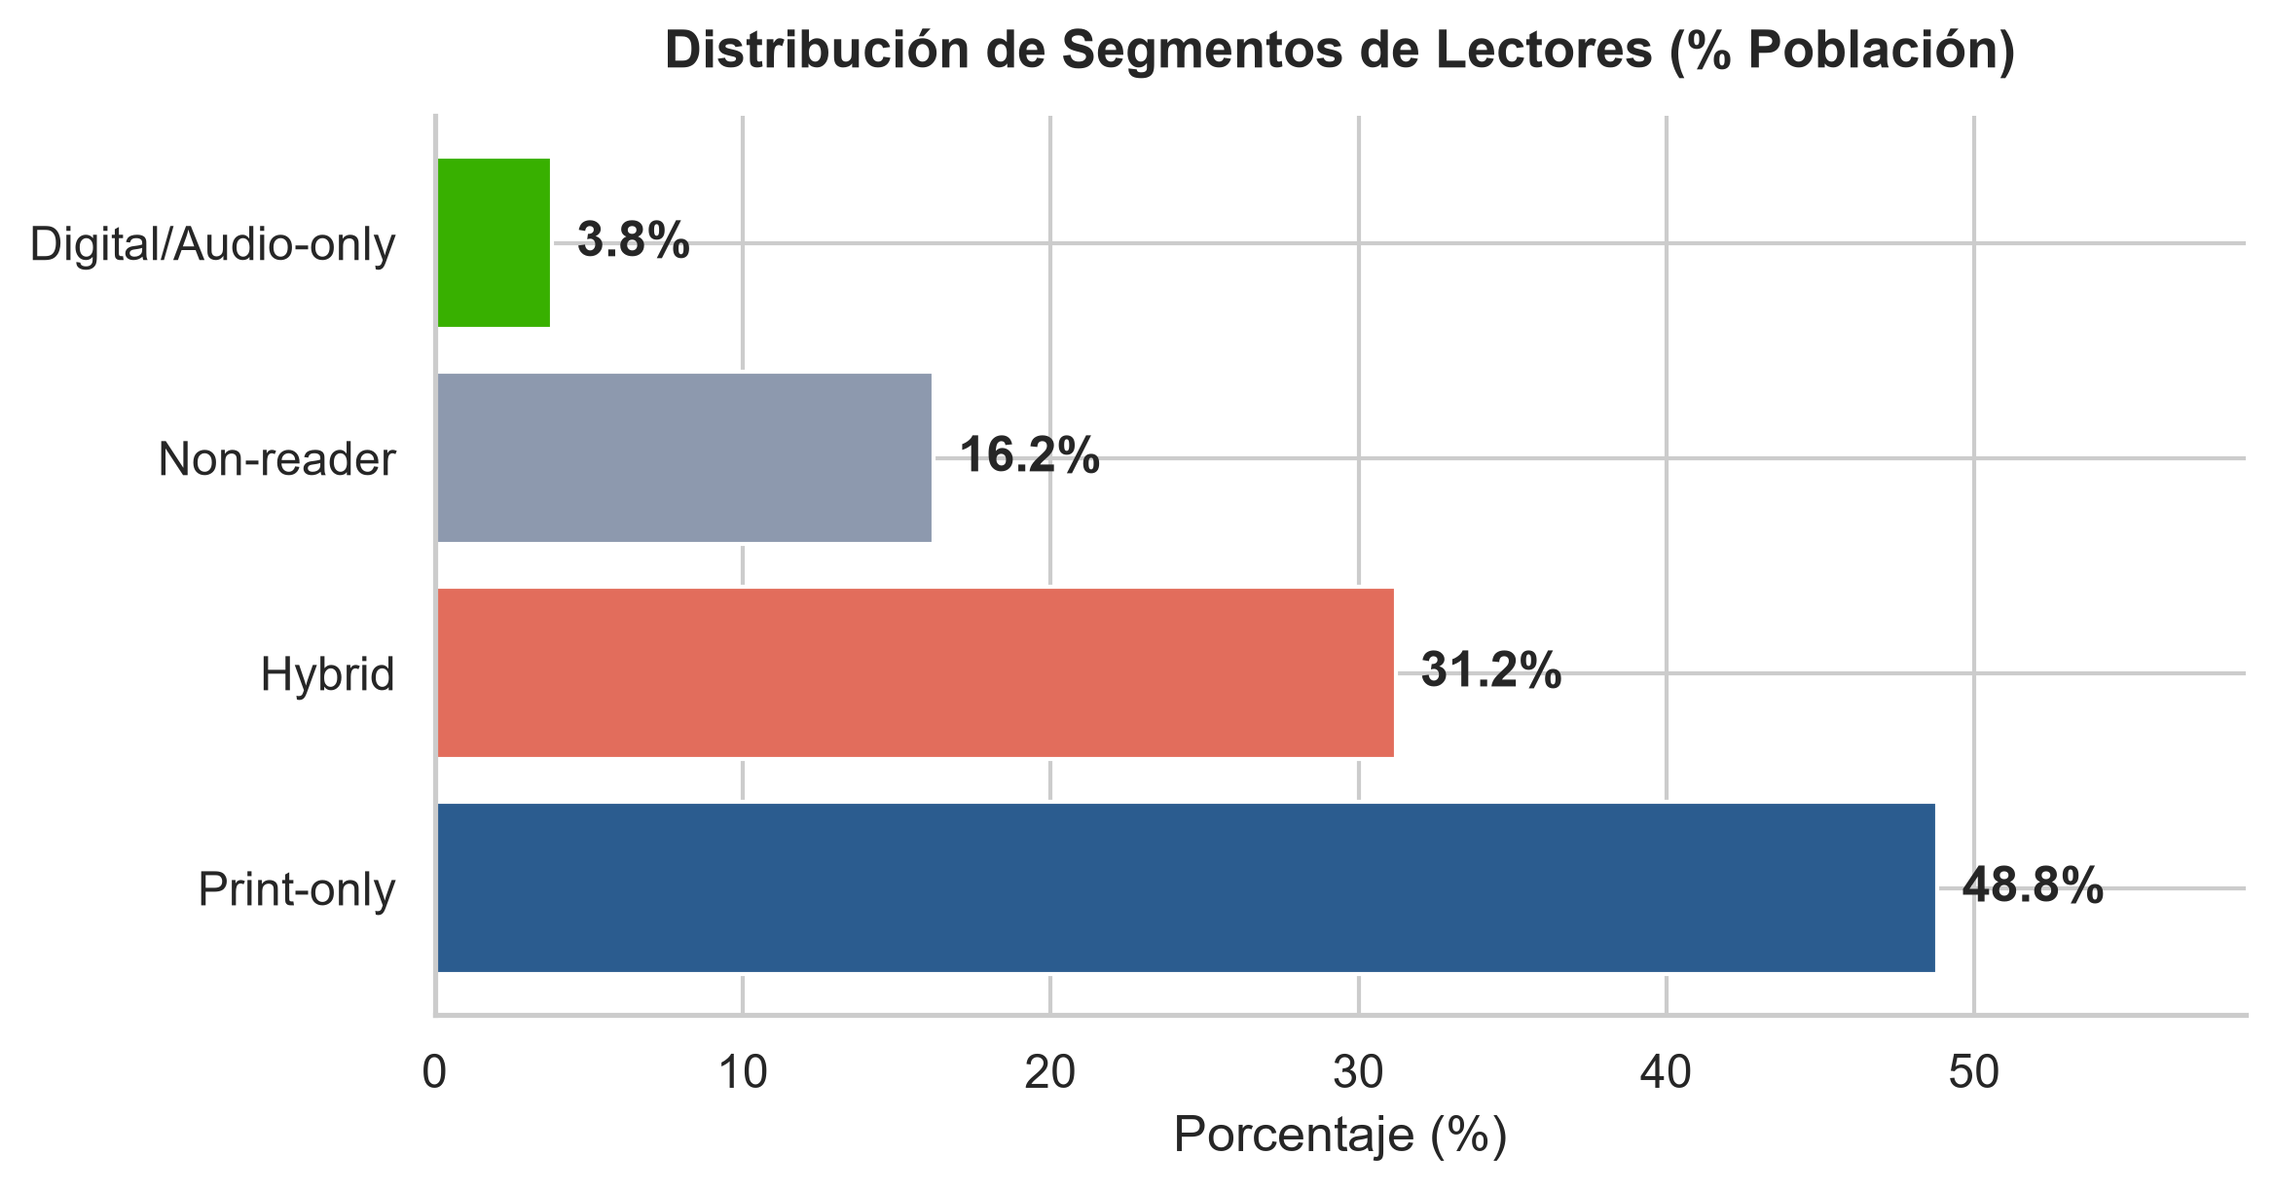
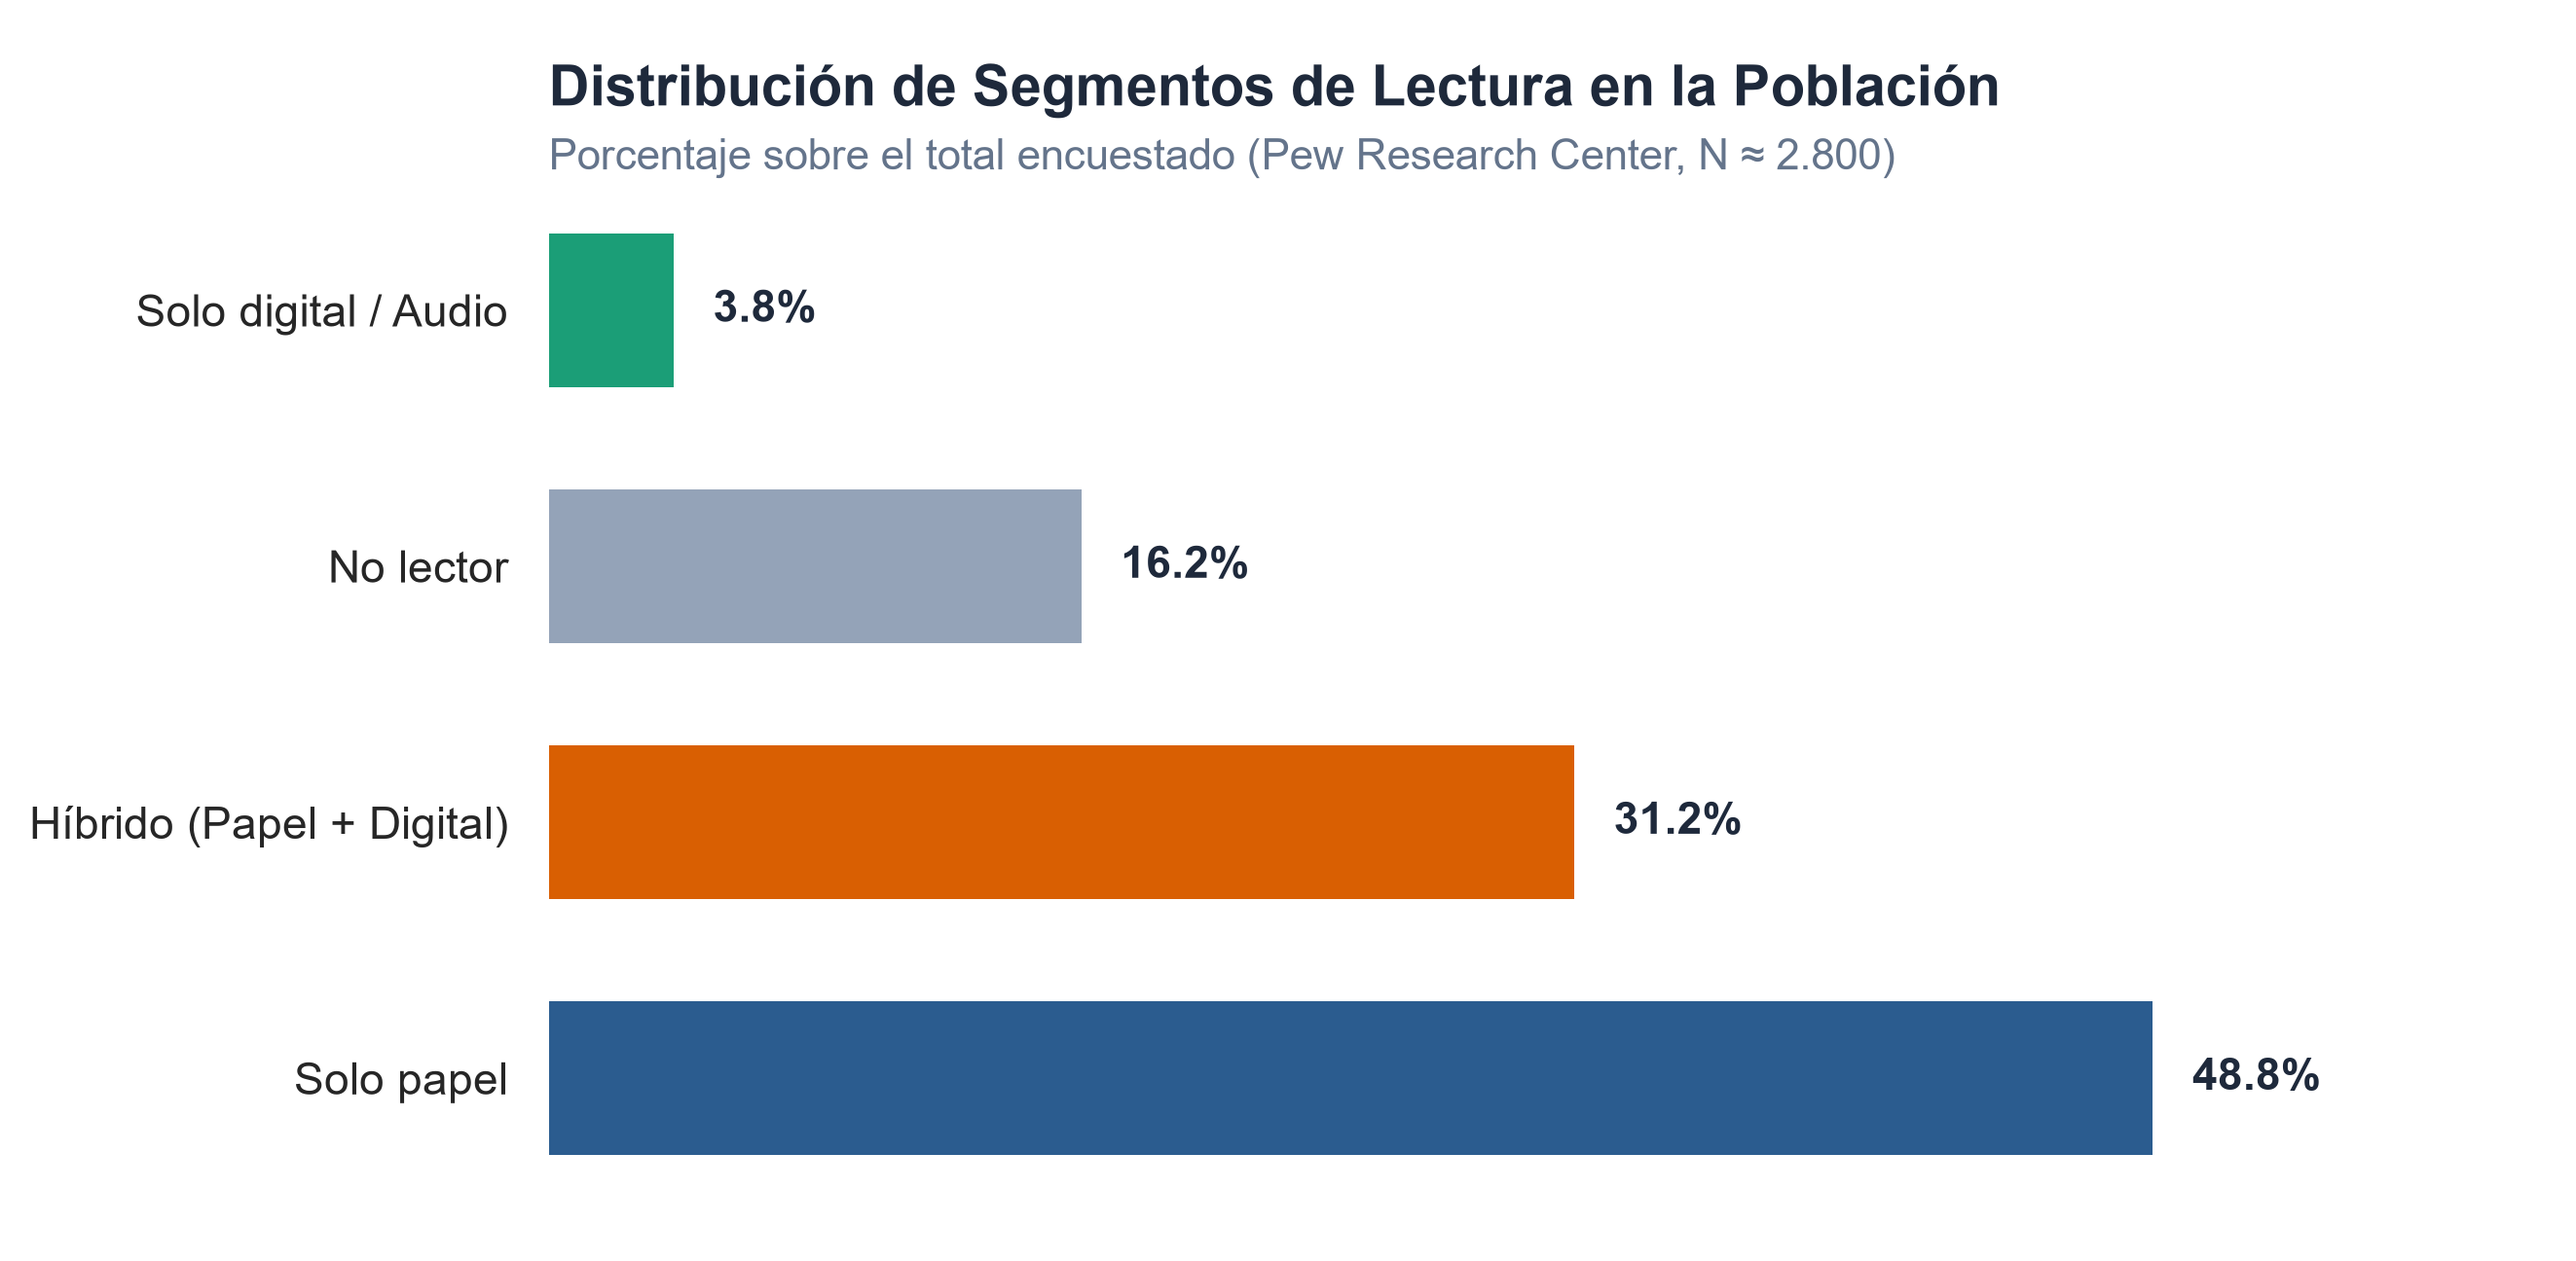
mejora de diseño y etiquetas del grafico de segmento

diff --git a/src/plotting.py b/src/plotting.py
@@ -21,20 +21,81 @@ def save_figure(fig, filename: str, output_dir: Path):
 
 
 def plot_segments_distribution(df, output_dir: Path):
-  """Gráfico de barras horizontales con el porcentaje por segmento."""
+  """Gráfico de barras horizontales limpio, con etiquetas en español y alto contraste."""
+  # Mapeo a español para consistencia editorial
+  label_es = {
+      'Print-only': 'Solo papel',
+      'Hybrid': 'Híbrido (Papel + Digital)',
+      'Non-reader': 'No lector',
+      'Digital/Audio-only': 'Solo digital / Audio',
+  }
+
   counts = df['reader_segment'].value_counts(normalize=True).mul(100).round(1)
+  counts.index = [label_es.get(idx, idx) for idx in counts.index]
 
-  fig, ax = plt.subplots(figsize=(8, 4))
-  bars = ax.barh(counts.index, counts.values, color=[PALETTE.get(x, '#333') for x in counts.index])
-  ax.set_title('Distribución de Segmentos de Lectores (% Población)', fontsize=13, weight='bold', pad=12)
-  ax.set_xlabel('Porcentaje (%)')
+  # Paleta accesible y con jerarquía visual (destaca los lectores)
+  colors = {
+      'Solo papel': '#2b5c8f',
+      'Híbrido (Papel + Digital)': '#d95f02',
+      'No lector': '#94a3b8',
+      'Solo digital / Audio': '#1b9e77',
+  }
+  bar_colors = [colors.get(cat, '#475569') for cat in counts.index]
 
+  fig, ax = plt.subplots(figsize=(9, 4.5), dpi=300)
+
+  # Barras con esquinas limpias y altura consistente
+  bars = ax.barh(
+      counts.index,
+      counts.values,
+      color=bar_colors,
+      height=0.6,
+      edgecolor='none',
+  )
+
+  # Título principal y subtítulo contextual
+  ax.text(
+      0,
+      3.8,
+      'Distribución de Segmentos de Lectura en la Población',
+      fontsize=14,
+      weight='bold',
+      color='#1e293b',
+  )
+  ax.text(
+      0,
+      3.55,
+      'Porcentaje sobre el total encuestado (Pew Research Center, N ≈ 2.800)',
+      fontsize=10.5,
+      color='#64748b',
+  )
+
+  # Etiquetas de datos directas sobre las barras
   for bar in bars:
     w = bar.get_width()
-    ax.text(w + 0.8, bar.get_y() + bar.get_height() / 2, f'{w:.1f}%', va='center', weight='bold')
+    ax.text(
+        w + 1.2,
+        bar.get_y() + bar.get_height() / 2,
+        f'{w:.1f}%',
+        va='center',
+        ha='left',
+        fontsize=11,
+        weight='bold',
+        color='#1e293b',
+    )
 
-  ax.set_xlim(0, max(counts.values) + 10)
-  sns.despine(top=True, right=True)
+  # Ajustes de espaciado y limpieza de bordes/grilla
+  ax.set_xlim(0, max(counts.values) + 12)
+  ax.set_ylim(-0.6, 4.1)
+  ax.tick_params(axis='y', labelsize=11, length=0, pad=10)
+  ax.tick_params(axis='x', bottom=False, labelbottom=False)  # Quita el eje X
+  ax.xaxis.grid(False)
+  ax.yaxis.grid(False)
+
+  # Eliminar marcos innecesarios
+  sns.despine(top=True, right=True, left=True, bottom=True)
+  plt.tight_layout()
+
   save_figure(fig, 'reader_segments_distribution.png', output_dir)
   return fig
 
